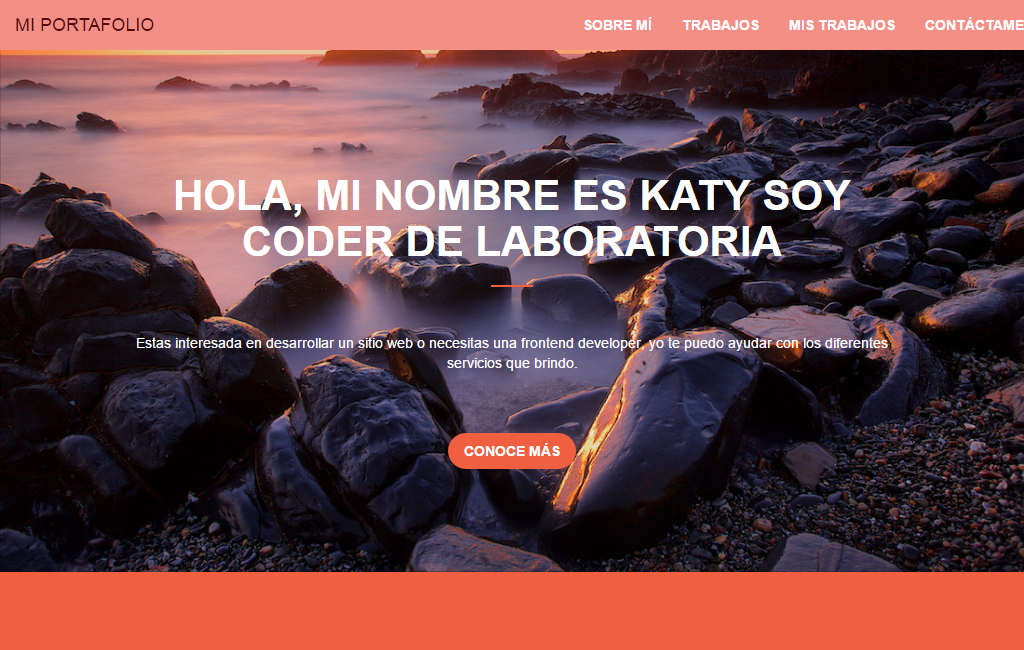
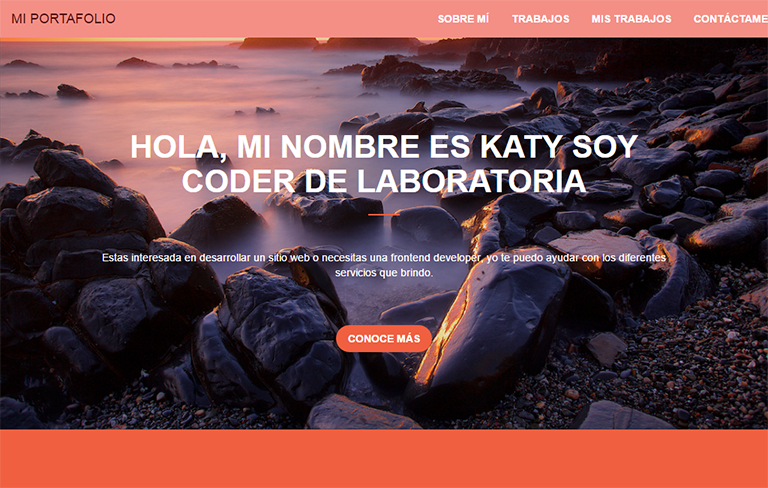
cambie resolucion de imagenes, agregue media queries de menu

diff --git a/index.html b/index.html
@@ -48,14 +48,14 @@
 				</div>
 			</div>
 		</section><!--fin seccion de mi nombre-->
-		<section id="sobreMi" class=" pd-10"><!--inicio seccion sobre mi-->
-			<div class="container-fluid">
+		<section id="sobreMi"><!--inicio seccion sobre mi-->
+			<div class="container-fluid pd-10">
 				<div class="row">
-					<div class="col-lg-6 col-md-6 col-sm-12 col-xs-12 text-center mgt-10"><!--mi foto-->
+					<div class="col-lg-6 col-md-6 col-sm-12 col-xs-12 text-center mgt-5"><!--mi foto-->
 						<img class="img-circle" id="miFoto" src="img/edith.jpg" alt="Foto de Edith Shirley">
 					</div>
-					<div class="col-lg-6 col-md-6 col-sm-12 col-xs-12 text-center"><!--sobre mi-->
-						<h2 class="text-rosa mg-5 pd-5">Sobre mí</h2><!--titulo de sobre mi-->
+					<div class="col-lg-6 col-md-6 col-sm-12 col-xs-12 text-center mgb-5"><!--sobre mi-->
+						<h2 class="text-rosa mg-10">Sobre mí</h2><!--titulo de sobre mi-->
 						<p class="texto mg-5">Soy Front-End Web Developer egresada de Laboratoria México, siendo un complemento con mi Licenciatura en Sistemas Computacionales.</p>
 						<p class="texto">Para mí la tecnología es un medio que nos brinda muchas oportunidades de crecimiento, innovación y desarrollo, tanto de manera profesional como personal.</p>
 					</div>
@@ -167,7 +167,7 @@
 					</div>
 				</div>
 				<div class="row">
-					<div class="col-lg-4 col-lg-offset-2 col-md-4 col-md-offset-2 col-sm-12 col-xs-12 mgt-5"><!--cuarto proyecto-->	
+					<div class="col-lg-4 col-lg-offset-2 col-md-4 col-md-offset-2 col-sm-4 col-sm-offset-2 col-xs-12 mgt-5"><!--cuarto proyecto-->	
 						<div class="hovereffect wow rubberBand">
 							<img class="img-responsive" src="img/proyectos/Ecomunidad.png" alt="Proyecto Ecomunidad">
 							<div class="overlay">
@@ -177,7 +177,7 @@
 							</div>
 						</div>
 					</div>
-					<div class="col-lg-4 col-md-4 col-sm-12 col-xs-12 mgt-5"><!--quinto proyecto-->	
+					<div class="col-lg-4 col-md-4 col-sm-4 col-xs-12 mgt-5"><!--quinto proyecto-->	
 						<div class="hovereffect wow rubberBand">
 							<img class="img-responsive" src="img/proyectos/Flatness.png" alt="Proyecto Flatness">
 							<div class="overlay">

diff --git a/css/queries.css b/css/queries.css
@@ -1,15 +1,17 @@
 @media (min-width: 1200px) {
 	h1{
-	/*border: 1px solid yellow;*/
-		font-size: 14em;
-	}
-	/*margin top del primer h1*/
-	h1:first-child{
-		margin-top: 10%;
+		/*border: 1px solid yellow;*/
+		font-size: 16em;
 	}
 	/*mi foto*/
 	#miFoto{
 		max-width: 60%;
+	}
+	span.fa:hover{
+		color: #00856a;
+		border-radius: 50%;
+		background-color: #fff;
+		padding: 5%;
 	}
 }
 
@@ -19,20 +21,24 @@
 		/*border: 1px solid red;*/
 		font-size: 14em;
 	}
-	/*margin top del primer h1*/
-	h1:first-child{
-		margin-top: 5%;
-	}
 	/*mi foto*/
 	#miFoto{
 		max-width: 60%;
+		margin-top: 5%;
 	}
-	/*icono de menu*/
-	.navicon{
-		margin-top: 2%;
+	.toggle-menu li{
+		margin-top: 65px;
+	}
+	.toggle-menu li a{
+		font-size: 30px;
+	}
+	span.fa:hover{
+		color: #00856a;
+		border-radius: 50%;
+		background-color: #fff;
+		padding: 8% 10%;
 	}
 }
-
 
 @media (min-width: 768px) and (max-width: 991px) {
 	/*encabezado de mi nombre*/	
@@ -40,27 +46,23 @@
 		/*border: 1px solid blue;*/
 		font-size: 12em;
 	}
-	/*margin top del primer h1*/
-	h1:first-child{
-		margin-top: 10%;
-	}
 	/*mi foto*/
 	#miFoto{
 		max-width: 30%;
 	}
-	/*icono de menu*/
-	.navicon{
-		margin-top: 10%;
+	.toggle-menu li{
+		margin-top: 70px;
+	}
+	.toggle-menu li a{
+		font-size: 35px;
 	}
 }
-
 
 @media (max-width: 767px) {
 	/*encabezado de mi nombre*/
 	h1{
 		/*border: 1px solid pink;*/
-		/*margin-top: 30%; */
-		font-size: 10em;
+		font-size: 11em;
 	}
 	/*margin top del primer h1*/
 	h1:first-child{
@@ -70,12 +72,16 @@
 	#miFoto{
 		max-width: 40%;
 	}
-	/*icono de menu*/
+	.toggle-menu li{
+		margin-top: 35px;
+	}
+	.toggle-menu li a{
+		font-size: 25px;
+	}
 	.navicon{
-		margin-top: 10%;
+		margin-top: 6%;
 	}
 }
-
 
 @media (max-width: 480px) {
 	/*encabezado de mi nombre*/
@@ -91,13 +97,12 @@
 	#miFoto{
 		max-width: 50%;
 	}
-	/*icono de menu*/
-	.navicon{
-		margin-top: 10%;
-	}
 	/*texto sobre mi*/
 	.texto{
 		font-size: 1.4em;
+	}
+	.navicon{
+		margin-top: 8%;
 	}
 }
 /*http://shapebootstrap.net/demo/html/corlate/*/

diff --git a/css/estilos.css b/css/estilos.css
@@ -42,6 +42,10 @@ h1{
 	color: #210423;
 	font-weight: 900;
 }
+/*margin top del primer h1*/
+h1:first-child{
+	margin-top: 10%;
+}
 /*texto de titulos*/
 h2{
 	font-family: 'Poppins', sans-serif;
@@ -111,12 +115,7 @@ h2{
 	text-align: left;
 	transition-duration: 3s;
 }
+/*color de los span de enlace*/
 span.fa{
 	color: #fff;
-}
-span.fa:hover{
-	color: #00856a;
-	border-radius: 50%;
-	background-color: #fff;
-	padding: 5%;
 }

diff --git a/css/menu.css b/css/menu.css
@@ -20,20 +20,19 @@
 	transform: translateY(0);
 }
 .toggle-menu li{
-	margin-top: 40px;
+	margin-top: 80px;
 }
 
 .toggle-menu li a{
 	text-decoration: none;
 	color: #751A54;
 	text-align: center;
-	font-size: 30px;
+	font-size: 40px;
 	font-weight: 700;
 	text-transform: uppercase;
 	border-bottom: 2px solid transparent;
 	-webkit-transition: linear 0.5s all;
 	transition: linear 0.5s all;
-
 }
 
 .toggle-menu li a:hover{
